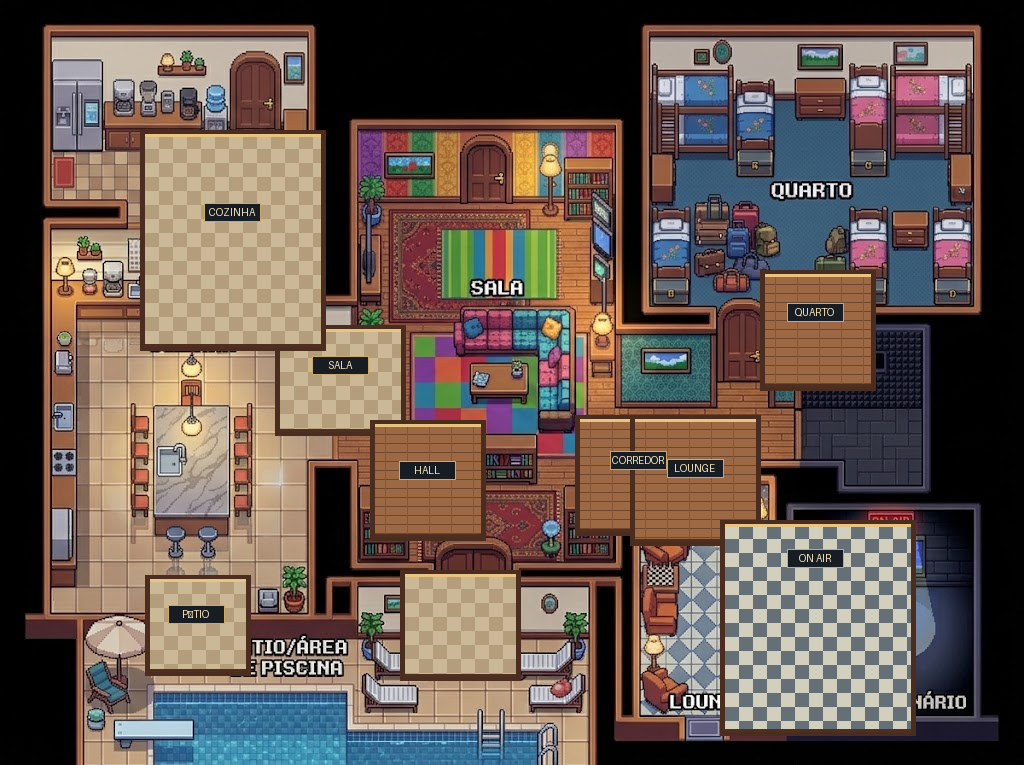
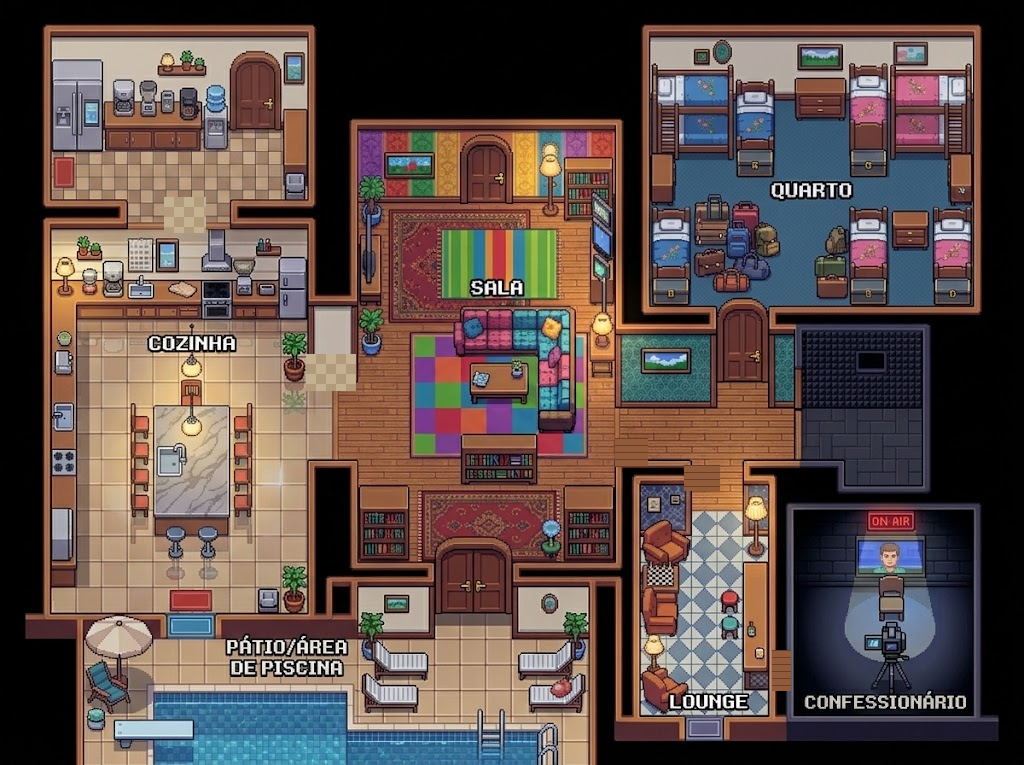
fix: limpa e ajusta o mapa na v1.3.2

diff --git a/game.js b/game.js
@@ -119,29 +119,28 @@ const PORTALS=[
  {name:"Lounge",roomA:"LOUNGE",ax:676,ay:595,roomB:"HALL",bx:596,by:562},
  {name:"Confessionário",roomA:"CONFESSIONÁRIO",ax:916,ay:690,roomB:"LOUNGE",bx:735,by:690}
 ];
-
 const PASSAGE_FLOORS=[
- {room:"PASSAGEM COZINHA/SALA",x:280,y:330,w:120,h:100},
- {room:"PASSAGEM DESPENSA/COZINHA",x:145,y:135,w:175,h:210},
- {room:"PASSAGEM COZINHA/PÁTIO",x:150,y:580,w:95,h:90},
- {room:"PASSAGEM SALA/HALL",x:375,y:425,w:105,h:110},
- {room:"PASSAGEM HALL/PÁTIO",x:405,y:575,w:110,h:100},
- {room:"PASSAGEM HALL/CORREDOR",x:580,y:420,w:120,h:110},
- {room:"PASSAGEM QUARTO/CORREDOR",x:765,y:275,w:105,h:110},
- {room:"PASSAGEM CORREDOR/LOUNGE",x:635,y:420,w:120,h:120},
- {room:"PASSAGEM LOUNGE/CONFESSIONÁRIO",x:725,y:525,w:185,h:205}
+ {room:"PASSAGEM COZINHA/SALA",x:276,y:336,w:108,h:72},
+ {room:"PASSAGEM DESPENSA/COZINHA",x:144,y:180,w:84,h:72},
+ {room:"PASSAGEM COZINHA/PÁTIO",x:156,y:588,w:84,h:72},
+ {room:"PASSAGEM SALA/HALL",x:384,y:444,w:60,h:72},
+ {room:"PASSAGEM HALL/PÁTIO",x:420,y:588,w:96,h:72},
+ {room:"PASSAGEM HALL/CORREDOR",x:588,y:420,w:96,h:84},
+ {room:"PASSAGEM QUARTO/CORREDOR",x:768,y:276,w:96,h:96},
+ {room:"PASSAGEM CORREDOR/LOUNGE",x:648,y:444,w:96,h:84},
+ {room:"PASSAGEM LOUNGE/CONFESSIONÁRIO",x:744,y:624,w:84,h:108}
 ];
-
-const DOOR_CUTOUTS=[
- [272,322,136,116],
- [137,127,191,226],
- [142,572,111,106],
- [367,417,121,126],
- [397,567,126,116],
- [572,412,136,126],
- [757,267,121,126],
- [627,412,136,136],
- [717,517,201,221]
+// Faixas estreitas de porta. Só dentro delas a parede é ignorada.
+const DOOR_LANES=[
+ [276,348,108,48],
+ [156,180,60,72],
+ [168,588,48,72],
+ [384,444,48,72],
+ [432,588,72,72],
+ [588,432,96,48],
+ [780,276,72,96],
+ [660,444,72,84],
+ [756,636,60,96]
 ];
 
 
@@ -151,7 +150,7 @@ let collisionDebug=false;
 
 function rawFloorPoint(x,y){
  return FLOOR_RECTS.some(r=>x>=r.x&&x<=r.x+r.w&&y>=r.y&&y<=r.y+r.h) ||
-        PASSAGE_FLOORS.some(r=>x>=r.x&&x<=r.x+r.w&&y>=r.y&&y<=r.y+r.h)
+ PASSAGE_FLOORS.some(r=>x>=r.x&&x<=r.x+r.w&&y>=r.y&&y<=r.y+r.h)
 }
 
 function pointInFloors(x,y,r=PLAYER_RADIUS){
@@ -172,11 +171,8 @@ function circleRect(cx,cy,r,bx,by,bw,bh){
  return (cx-nx)*(cx-nx)+(cy-ny)*(cy-ny)<r*r
 }
 function staticBlocked(x,y,r=PLAYER_RADIUS){
- const inDoor=DOOR_CUTOUTS.some(([dx,dy,dw,dh])=>x>=dx&&x<=dx+dw&&y>=dy&&y<=dy+dh);
- return SOLIDS.some(([bx,by,bw,bh])=>{
-  if(inDoor&&circleRect(x,y,r,bx,by,bw,bh))return false;
-  return circleRect(x,y,r,bx,by,bw,bh)
- })
+ const lane=DOOR_LANES.some(([dx,dy,dw,dh])=>x>=dx&&x<=dx+dw&&y>=dy&&y<=dy+dh);
+ return SOLIDS.some(([bx,by,bw,bh])=>circleRect(x,y,r,bx,by,bw,bh)&&!lane)
 }
 
 function blockingActor(x,y,r,who){
@@ -252,40 +248,23 @@ function callToConfessional(){
 
 function startConfessionalTravel(){
  if(!me||!me.alive)return;
- const target=[918,610];
- const route=findPath(me.x,me.y,target[0],target[1],me,7000);
- if(!route.length){
-  addFeed("⚠ A Produção não encontrou uma rota até o Confessionário.");
-  toast("CAMINHO BLOQUEADO");
-  autoConfession=null;
-  return
- }
- autoConfession={target,path:route,index:0};
- eventName="📢 Indo ao Confessionário";
+ const target=[850,590],route=findPath(me.x,me.y,target[0],target[1],me,9000);
+ if(!route.length){toast("CAMINHO BLOQUEADO");autoConfession=null;return}
+ autoConfession={target,path:route,index:0};eventName="📢 Indo ao Confessionário";
  toast("📺 INDO AO CONFESSIONÁRIO")
 }
 
 function updateConfessionalTravel(dt){
  if(!autoConfession||!me)return false;
  const path=autoConfession.path;
- if(!Array.isArray(path)||autoConfession.index>=path.length){
-  me.facing="left";
-  autoConfession=null;eventName="";
-  setTimeout(()=>confession(),220);
-  return true
- }
- const wp=path[autoConfession.index];
- const dx=wp[0]-me.x,dy=wp[1]-me.y,d=Math.hypot(dx,dy);
+ if(!path||autoConfession.index>=path.length){autoConfession=null;eventName="";setTimeout(()=>confession(),220);return true}
+ const wp=path[autoConfession.index],dx=wp[0]-me.x,dy=wp[1]-me.y,d=Math.hypot(dx,dy);
  if(d<5){autoConfession.index++;return true}
- const step=Math.min(102*dt,d),vx=dx/(d||1),vy=dy/(d||1);
- me.facing=Math.abs(vx)>Math.abs(vy)?(vx>0?"right":"left"):(vy>0?"down":"up");
- me.walkFrame=(me.walkFrame+dt*6)%4;
+ const vx=dx/(d||1),vy=dy/(d||1),step=Math.min(96*dt,d);
+ me.facing=Math.abs(vx)>Math.abs(vy)?(vx>0?"right":"left"):(vy>0?"down":"up");me.walkFrame=(me.walkFrame+dt*6)%4;
  const nx=me.x+vx*step,ny=me.y+vy*step;
  if(canMoveStatic(nx,ny,PLAYER_RADIUS)){me.x=nx;me.y=ny}
- else{
-  if(canMoveStatic(nx,me.y,PLAYER_RADIUS))me.x=nx;
-  if(canMoveStatic(me.x,ny,PLAYER_RADIUS))me.y=ny
- }
+ else{if(canMoveStatic(nx,me.y,PLAYER_RADIUS))me.x=nx;if(canMoveStatic(me.x,ny,PLAYER_RADIUS))me.y=ny}
  return true
 }
 
@@ -313,9 +292,7 @@ function returnHomeFromChallenge(){
  homePositions=null;challengeArenaKey="";eventName="";
  toast("🏠 TODOS DE VOLTA À CASA")
 }
-function nearestPortal(p){
- return null
-}
+function nearestPortal(p){return null}
 
 function useNearestPortal(p){
  const found=nearestPortal(p);if(!found)return false;
@@ -337,7 +314,7 @@ console.log("[Casa em Jogo] script inicializado");document.documentElement.datas
 document.querySelectorAll(".trait").forEach(b=>b.onclick=()=>{document.querySelectorAll(".trait").forEach(x=>x.classList.remove("selected"));b.classList.add("selected");trait=b.dataset.trait;updateStartPreview()});document.querySelector("#name").addEventListener("input",updateStartPreview);
 COLORS.slice(0,7).forEach((c,i)=>{let b=document.createElement("button");b.className="color"+(i===0?" selected":"");b.style.background=c;b.onclick=()=>{document.querySelectorAll(".color").forEach(x=>x.classList.remove("selected"));b.classList.add("selected");playerColor=c};document.querySelector("#colors").appendChild(b)});
 let gameStarted=false,animationFrameId=null,loopErrorCount=0,lastFatalAt=0;
-let passageCd=0,confessionCallCd=40,autoConfession=null,lastRoom="";
+let passageCd=0,confessionCallCd=40,autoConfession=null;
 let homePositions=null,challengeArenaKey="";
 
 document.querySelector("#play").onclick=()=>{
@@ -411,7 +388,7 @@ function findNearestWalkable(x,y){
 function findPath(sx,sy,tx,ty,who=null,maxNodes=1800){
  var navStep=(Number.isFinite(NAV_STEP)&&NAV_STEP>0)?NAV_STEP:12;
  if(![sx,sy,tx,ty].every(Number.isFinite))return [];
- maxNodes=Number.isFinite(maxNodes)&&maxNodes>0?Math.floor(maxNodes):1800;
+ maxNodes=Number.isFinite(maxNodes)&&maxNodes>0?Math.max(6000,Math.floor(maxNodes)):6000;
  const start=findNearestWalkable(sx,sy),goal=findNearestWalkable(tx,ty);
  if(!start||!goal)return [];
  const sk=navKey(start[0],start[1]),gk=navKey(goal[0],goal[1]);
@@ -419,7 +396,7 @@ function findPath(sx,sy,tx,ty,who=null,maxNodes=1800){
 
  const queue=[start],came=new Map([[sk,null]]),coords=new Map([[sk,start]]);
  let qi=0,visited=0;
- const dirs=[[1,0],[-1,0],[0,1],[0,-1]];
+ const dirs=[[1,0],[-1,0],[0,1],[0,-1],[1,1],[-1,1],[1,-1],[-1,-1]];
 
  while(qi<queue.length&&visited++<maxNodes){
   const cur=queue[qi++],ck=navKey(cur[0],cur[1]);
@@ -442,30 +419,33 @@ function findPath(sx,sy,tx,ty,who=null,maxNodes=1800){
 
 function chooseNpcDestination(p){
  const room=roomAt(p.x,p.y);
- const rooms=["SALA","COZINHA","HALL","PÁTIO / PISCINA","QUARTO","CORREDOR","LOUNGE","DESPENSA"];
+ const roamRooms=["SALA","COZINHA","HALL","PÁTIO / PISCINA","QUARTO","CORREDOR","LOUNGE"];
  const sameRoom=people.filter(o=>o!==p&&o.alive&&roomAt(o.x,o.y)===room);
  let target;
 
- if(sameRoom.length&&Math.random()<.27){
+ if(sameRoom.length&&Math.random()<.35){
   const other=pick(sameRoom),angle=Math.random()*Math.PI*2;
   target=[other.x+Math.cos(angle)*34,other.y+Math.sin(angle)*34];
   p.activity=Math.random()<.5?"conversando":"fofocando";
   p.socialTarget=other.name
  }else{
-  const currentBase=room.startsWith("PASSAGEM")?"SALA":room;
-  const targetRoom=Math.random()<.38?(pick(rooms)||currentBase):currentBase;
-  target=safePoint(targetRoom,p);
-  p.activity=targetRoom===currentBase?(pick(["passeando","observando","descansando"])||"observando"):`indo para ${targetRoom.toLowerCase()}`;
+  target=safePoint(room,p);
+  p.activity=pick(["passeando","observando","descansando"])||"observando";
   p.socialTarget=null
  }
 
- p.path=findPath(p.x,p.y,target[0],target[1],p,7000);
- p.pathIndex=0;p.repathCd=rnd(5,9);
+ if(Math.random()<.30){
+  const rr=pick(roamRooms),rp=safePoint(rr,p);
+  if(rp)target=rp
+ }
+ p.path=findPath(p.x,p.y,target[0],target[1],p,9000);
+ p.pathIndex=0;
+ p.repathCd=rnd(3,6);
 
  if(!p.path.length){
-  for(let i=0;i<24;i++){
+  for(let i=0;i<28;i++){
    const a=Math.random()*Math.PI*2,d=rnd(28,88);
-   const path=findPath(p.x,p.y,p.x+Math.cos(a)*d,p.y+Math.sin(a)*d,p,1000);
+   const path=findPath(p.x,p.y,p.x+Math.cos(a)*d,p.y+Math.sin(a)*d,p,600);
    if(path.length){p.path=path;break}
   }
  }
@@ -513,7 +493,7 @@ function start(){
  gameStarted=true;
  const name=document.querySelector("#name").value.trim()||"Jogador";
  // reset completo para impedir estado parcial caso o usuário tente iniciar novamente
- phase="social";round=1;time=70;lastRoom="";confessionCallCd=38;autoConfession=null;homePositions=null;challengeArenaKey="";feed=[];leader="";immune="";eventName="";near=null;doorNear=null;dialogueOpen=false;currentDialogue=null;if(typingTimer){clearInterval(typingTimer);typingTimer=null}document.querySelector("#dialogue").classList.add("hidden");closeModal();
+ phase="social";round=1;time=70;confessionCallCd=38;autoConfession=null;homePositions=null;challengeArenaKey="";feed=[];leader="";immune="";eventName="";near=null;doorNear=null;dialogueOpen=false;currentDialogue=null;if(typingTimer){clearInterval(typingTimer);typingTimer=null}document.querySelector("#dialogue").classList.add("hidden");closeModal();
  alliances=[];gossips=[];relationship={};eventCd=18;actionCd=0;roomActionCd=0;challenge=0;
  stats={energy:100,social:50,rep:50,coins:500};
  if(trait==="Social")stats.social=62;
@@ -552,7 +532,7 @@ function start(){
    else addFeed("✅ Autoteste de mapa, NPCs e runtime concluído.");
  }catch(err){console.warn("Autoteste não bloqueante:",err);addFeed("⚠ Autoteste ignorado para não bloquear a partida.")}
  if(activeMission)addFeed(`🎯 MISSÃO SECRETA: ${activeMission.text}`);
- toast("CASA EM JOGO • V1.3.1");
+ toast("CASA EM JOGO • V1.3.2");
  try{startMusic()}catch(err){console.warn("Áudio indisponível:",err)}
  last=performance.now();
  // desenha uma vez imediatamente: personagem aparece mesmo antes do primeiro frame agendado
@@ -614,14 +594,7 @@ function update(dt){
    tryMovePlayer(me.x,ny);
  }
  if(!uiBlocking())updateBots(dt);
- near=me?findNear():null;doorNear=null;
- if(me&&phase==="social"){
-  const currentRoom=roomAt(me.x,me.y);
-  if(!currentRoom.startsWith("PASSAGEM")&&currentRoom!=="FORA DA CASA"&&currentRoom!==lastRoom){
-   if(lastRoom)toast(`📍 ${currentRoom}`);
-   lastRoom=currentRoom
-  }
- }
+ near=me?findNear():null;doorNear=me?nearestPortal(me):null;
  if(eventCd<=0 && !uiBlocking() && phase==="social"){randomEvent();eventCd=rnd(19,31)}
  if(phase==="social"&&!uiBlocking()&&!autoConfession){
   confessionCallCd=Math.max(-1,confessionCallCd-dt);
@@ -1061,8 +1034,6 @@ function drawCollisionDebug(){
  PASSAGE_FLOORS.forEach(r=>ctx.fillRect(r.x,r.y,r.w,r.h));
  ctx.globalAlpha=.38;ctx.fillStyle="#ef4444";
  SOLIDS.forEach(([x,y,w,h])=>ctx.fillRect(x,y,w,h));
- ctx.globalAlpha=.55;ctx.fillStyle="#38bdf8";
- DOOR_CUTOUTS.forEach(([x,y,w,h])=>ctx.fillRect(x,y,w,h));
  ctx.globalAlpha=.9;ctx.fillStyle="#facc15";
  PORTALS.forEach(p=>{ctx.beginPath();ctx.arc(p.ax,p.ay,5,0,Math.PI*2);ctx.fill();ctx.beginPath();ctx.arc(p.bx,p.by,5,0,Math.PI*2);ctx.fill()});
  ctx.restore()
@@ -1127,7 +1098,7 @@ function runSelfTest(){
   if(!path.length)issues.push(`${p.name} sem rota em ${room}`)
  });
 
- console.log("[Casa em Jogo V1.3.1] autoteste:",issues.length?issues:"OK");
+ console.log("[Casa em Jogo V1.3.2] autoteste:",issues.length?issues:"OK");
  return issues
 }
 

diff --git a/index.html b/index.html
@@ -1,9 +1,9 @@
-<!doctype html><html lang="pt-BR"><head><meta charset="utf-8"><meta name="viewport" content="width=device-width,initial-scale=1"><title>Casa em Jogo — V1.3.1</title><link rel="stylesheet" href="style.css"></head><body>
+<!doctype html><html lang="pt-BR"><head><meta charset="utf-8"><meta name="viewport" content="width=device-width,initial-scale=1"><title>Casa em Jogo — V1.3.2</title><link rel="stylesheet" href="style.css"></head><body>
 <section id="start" class="screen active"><div class="start-bg"></div><div class="start-overlay"></div><div class="start-shell">
-<section class="hero-panel"><div class="season-pill">● TEMPORADA 1 • PROTÓTIPO V1.3.1</div><div class="brand"><span>CASA</span><b>EM JOGO</b><em>CONVIVA • JOGUE • SOBREVIVA</em></div><p class="hero-copy">Um reality social em pixel art onde alianças, fofocas, provas e decisões mudam a temporada.</p><div class="hero-features"><div><strong>🏆 5+</strong><span>Provas</span></div><div><strong>🤝</strong><span>Relações</span></div><div><strong>📺</strong><span>Fofocas</span></div><div><strong>⚡</strong><span>Poderes</span></div></div><div class="mini-profile"><img id="startPortrait" src="assets/portraits/theo.png"><div><small>SEU PARTICIPANTE</small><b id="previewName">Theo</b><span id="previewTrait">🤝 Social</span></div></div></section>
+<section class="hero-panel"><div class="season-pill">● TEMPORADA 1 • PROTÓTIPO V1.3.2</div><div class="brand"><span>CASA</span><b>EM JOGO</b><em>CONVIVA • JOGUE • SOBREVIVA</em></div><p class="hero-copy">Um reality social em pixel art onde alianças, fofocas, provas e decisões mudam a temporada.</p><div class="hero-features"><div><strong>🏆 5+</strong><span>Provas</span></div><div><strong>🤝</strong><span>Relações</span></div><div><strong>📺</strong><span>Fofocas</span></div><div><strong>⚡</strong><span>Poderes</span></div></div><div class="mini-profile"><img id="startPortrait" src="assets/portraits/theo.png"><div><small>SEU PARTICIPANTE</small><b id="previewName">Theo</b><span id="previewTrait">🤝 Social</span></div></div></section>
 <section class="creator-card"><div class="creator-title"><span>CRIAR PARTICIPANTE</span><small>Personalize sua entrada na casa</small></div><label for="name">NOME</label><input id="name" maxlength="16" value="Theo" autocomplete="off"><label>ESTILO DE JOGO</label><div class="traits"><button data-trait="Social" class="trait selected"><b>🤝</b><span>Social<small>mais afinidade</small></span></button><button data-trait="Competitivo" class="trait"><b>🏆</b><span>Competitivo<small>foco em provas</small></span></button><button data-trait="Provocador" class="trait"><b>🔥</b><span>Provocador<small>mais caos</small></span></button><button data-trait="Observador" class="trait"><b>👁</b><span>Observador<small>mais informação</small></span></button></div><label>COR DE DESTAQUE</label><div id="colors" class="colors"></div><div class="start-actions"><button id="play" class="primary"><span>ENTRAR NA CASA</span><b>▶</b></button><button id="howBtn" class="secondary">COMO JOGAR</button></div><div class="profile-summary"><span>🏆 Vitórias <b id="profileWins">0</b></span><span>🎬 Temporadas <b id="profileSeasons">0</b></span><span>🪙 Carteira <b id="profileCoins">0</b></span></div><p class="note">Offline • sem instalação • progresso salvo localmente no navegador</p></section>
 </div></section>
-<section id="game" class="screen"><main class="stage"><canvas id="canvas" width="1024" height="765"></canvas><div id="dayOverlay"></div><div id="topHud"><div class="hudchip energy">⚡ <span>ENERGIA</span><b id="energy">100</b></div><div class="hudchip social">🤝 <span>SOCIAL</span><b id="social">50</b></div><div class="hudchip rep">⭐ <span>REPUTAÇÃO</span><b id="rep">50</b></div><div class="hudchip coins">🪙 <span>MOEDAS</span><b id="coins">500</b></div></div><div id="roomBadge">SALA</div><div id="missionBadge" class="mission-badge">🎯 <span id="missionShort">Missão: carregando...</span></div><div id="prompt">WASD/setas • SHIFT correr • E conversar • F interagir • H colisões • portas são atravessáveis</div></main>
+<section id="game" class="screen"><main class="stage"><canvas id="canvas" width="1024" height="765"></canvas><div id="dayOverlay"></div><div id="topHud"><div class="hudchip energy">⚡ <span>ENERGIA</span><b id="energy">100</b></div><div class="hudchip social">🤝 <span>SOCIAL</span><b id="social">50</b></div><div class="hudchip rep">⭐ <span>REPUTAÇÃO</span><b id="rep">50</b></div><div class="hudchip coins">🪙 <span>MOEDAS</span><b id="coins">500</b></div></div><div id="roomBadge">SALA</div><div id="missionBadge" class="mission-badge">🎯 <span id="missionShort">Missão: carregando...</span></div><div id="prompt">WASD/setas • SHIFT correr • E conversar • F interagir • H colisões</div></main>
 <aside><header class="aside-head"><div><h2>CASA EM JOGO</h2><span>TEMPORADA 1</span></div><div id="dayLabel" class="day-label">DIA 1 ☀</div></header><div class="status"><div class="status-top"><b id="round">RODADA 1</b><strong id="timer">01:10</strong></div><small id="event">Convivência</small><div class="buttons"><button id="musicBtn">♫ Música ON</button><button id="gossipBtn">📺 Fofocas</button><button id="relBtn">🤝 Relações</button><button id="powersBtn">⚡ Poderes</button><button id="missionsBtn">🎯 Missões</button><button id="profileBtn">🏅 Perfil</button><button id="collisionBtn">🧱 Colisão</button><button id="npcDebugBtn">🤖 IA NPC</button></div></div><h3>PARTICIPANTES</h3><div id="players"></div><h3>ACONTECIMENTOS</h3><div id="feed"></div></aside></section>
 <div id="modal" class="modal hidden"><div class="panel"><i></i><button id="modalClose" class="modal-close">×</button><h2 id="modalTitle"></h2><p id="modalText"></p><div id="choices"></div></div></div>
 <div id="dialogue" class="dialogue hidden"><div id="portrait" class="portrait"><img id="portraitImg" src="assets/portraits/luna.png"></div><div class="dialogue-main"><div id="speaker" class="speaker">Luna</div><div id="dialogueText" class="dialogue-text"></div><div id="dialogueChoices" class="dialogue-choices"></div><div id="dialogueHint" class="dialogue-hint">ESPAÇO para continuar</div></div></div>
